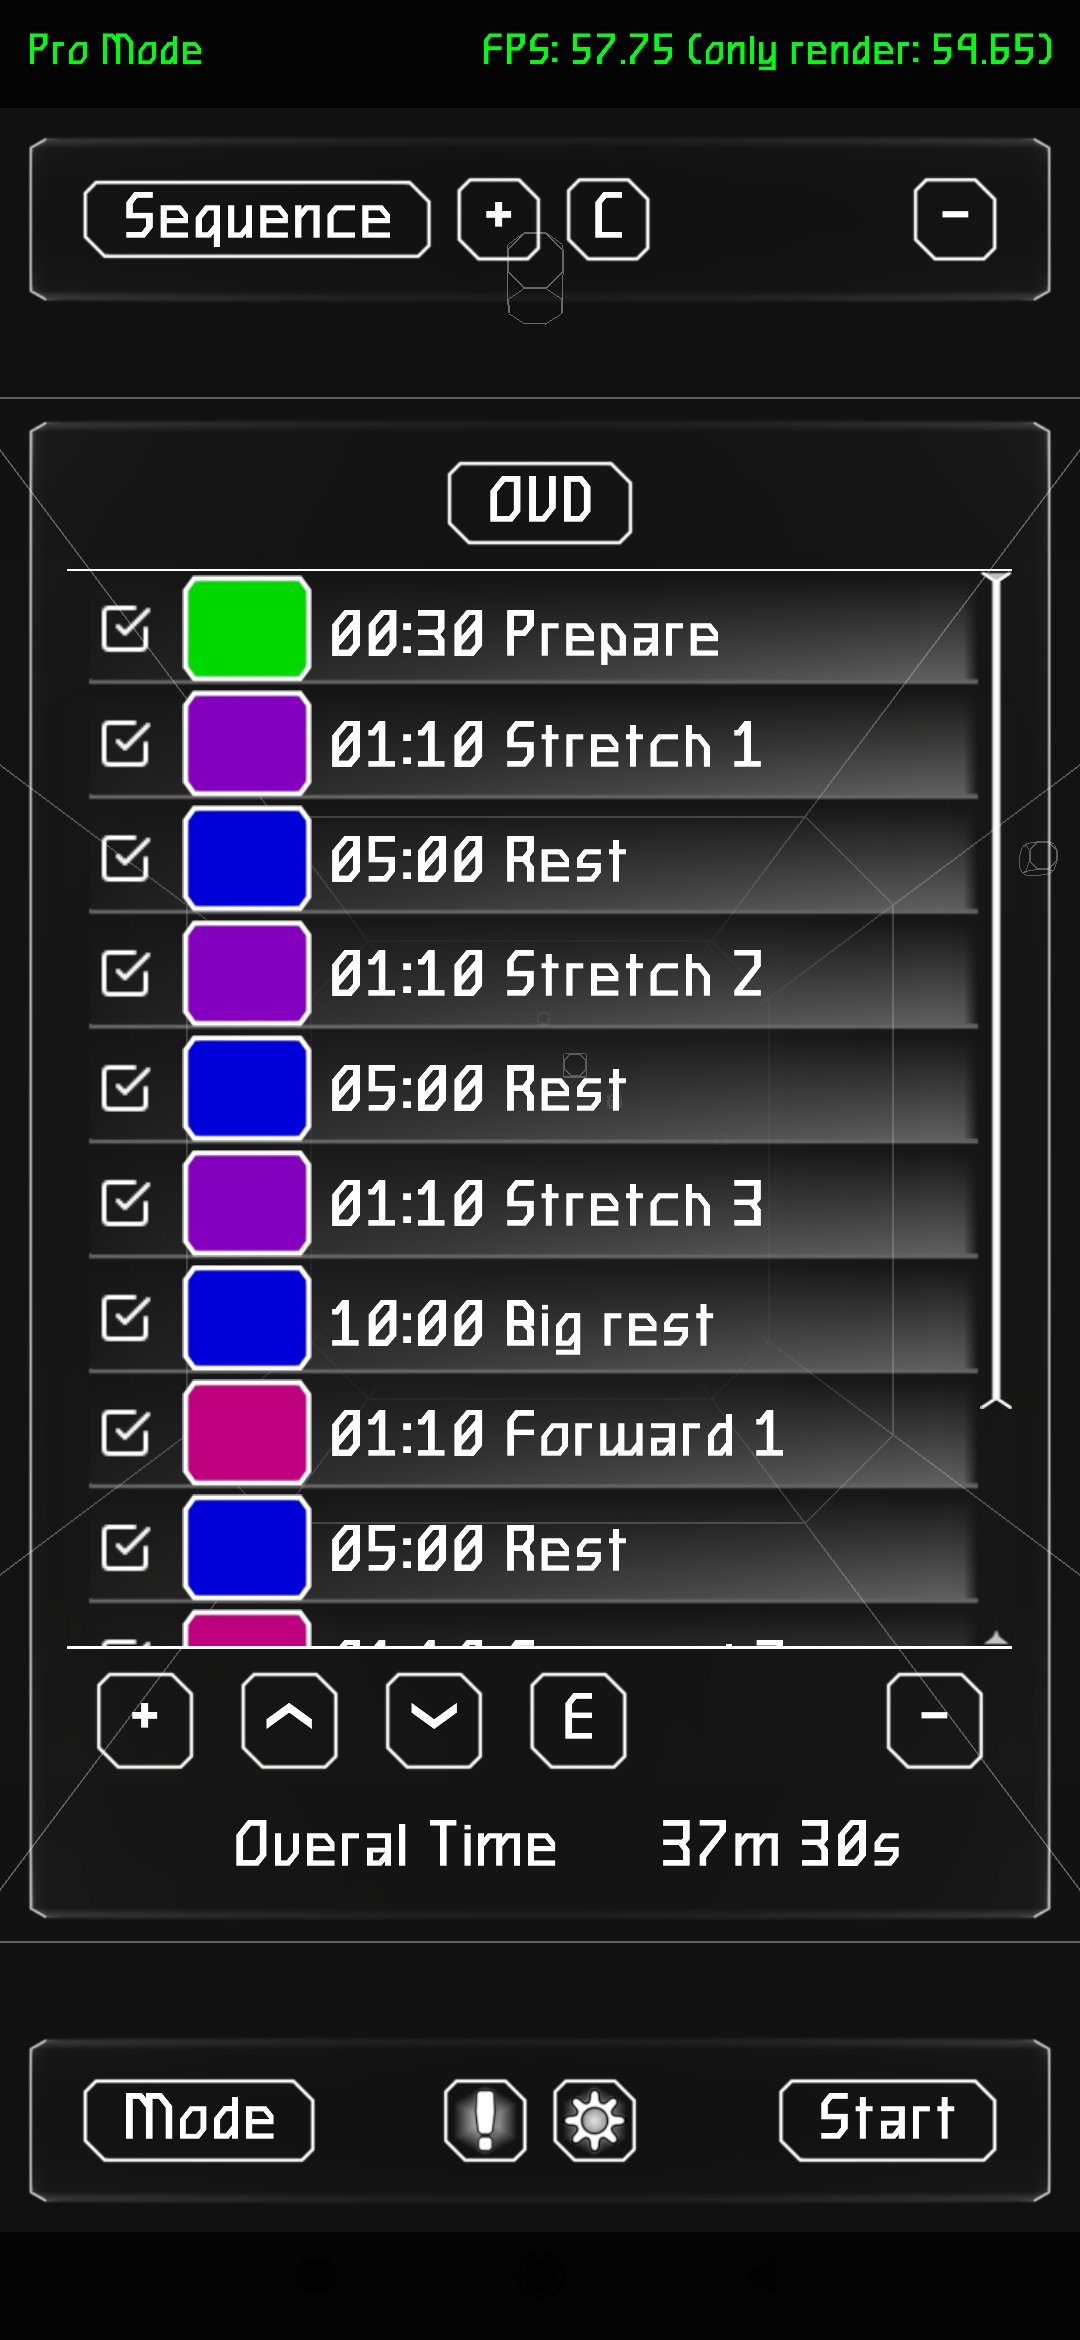
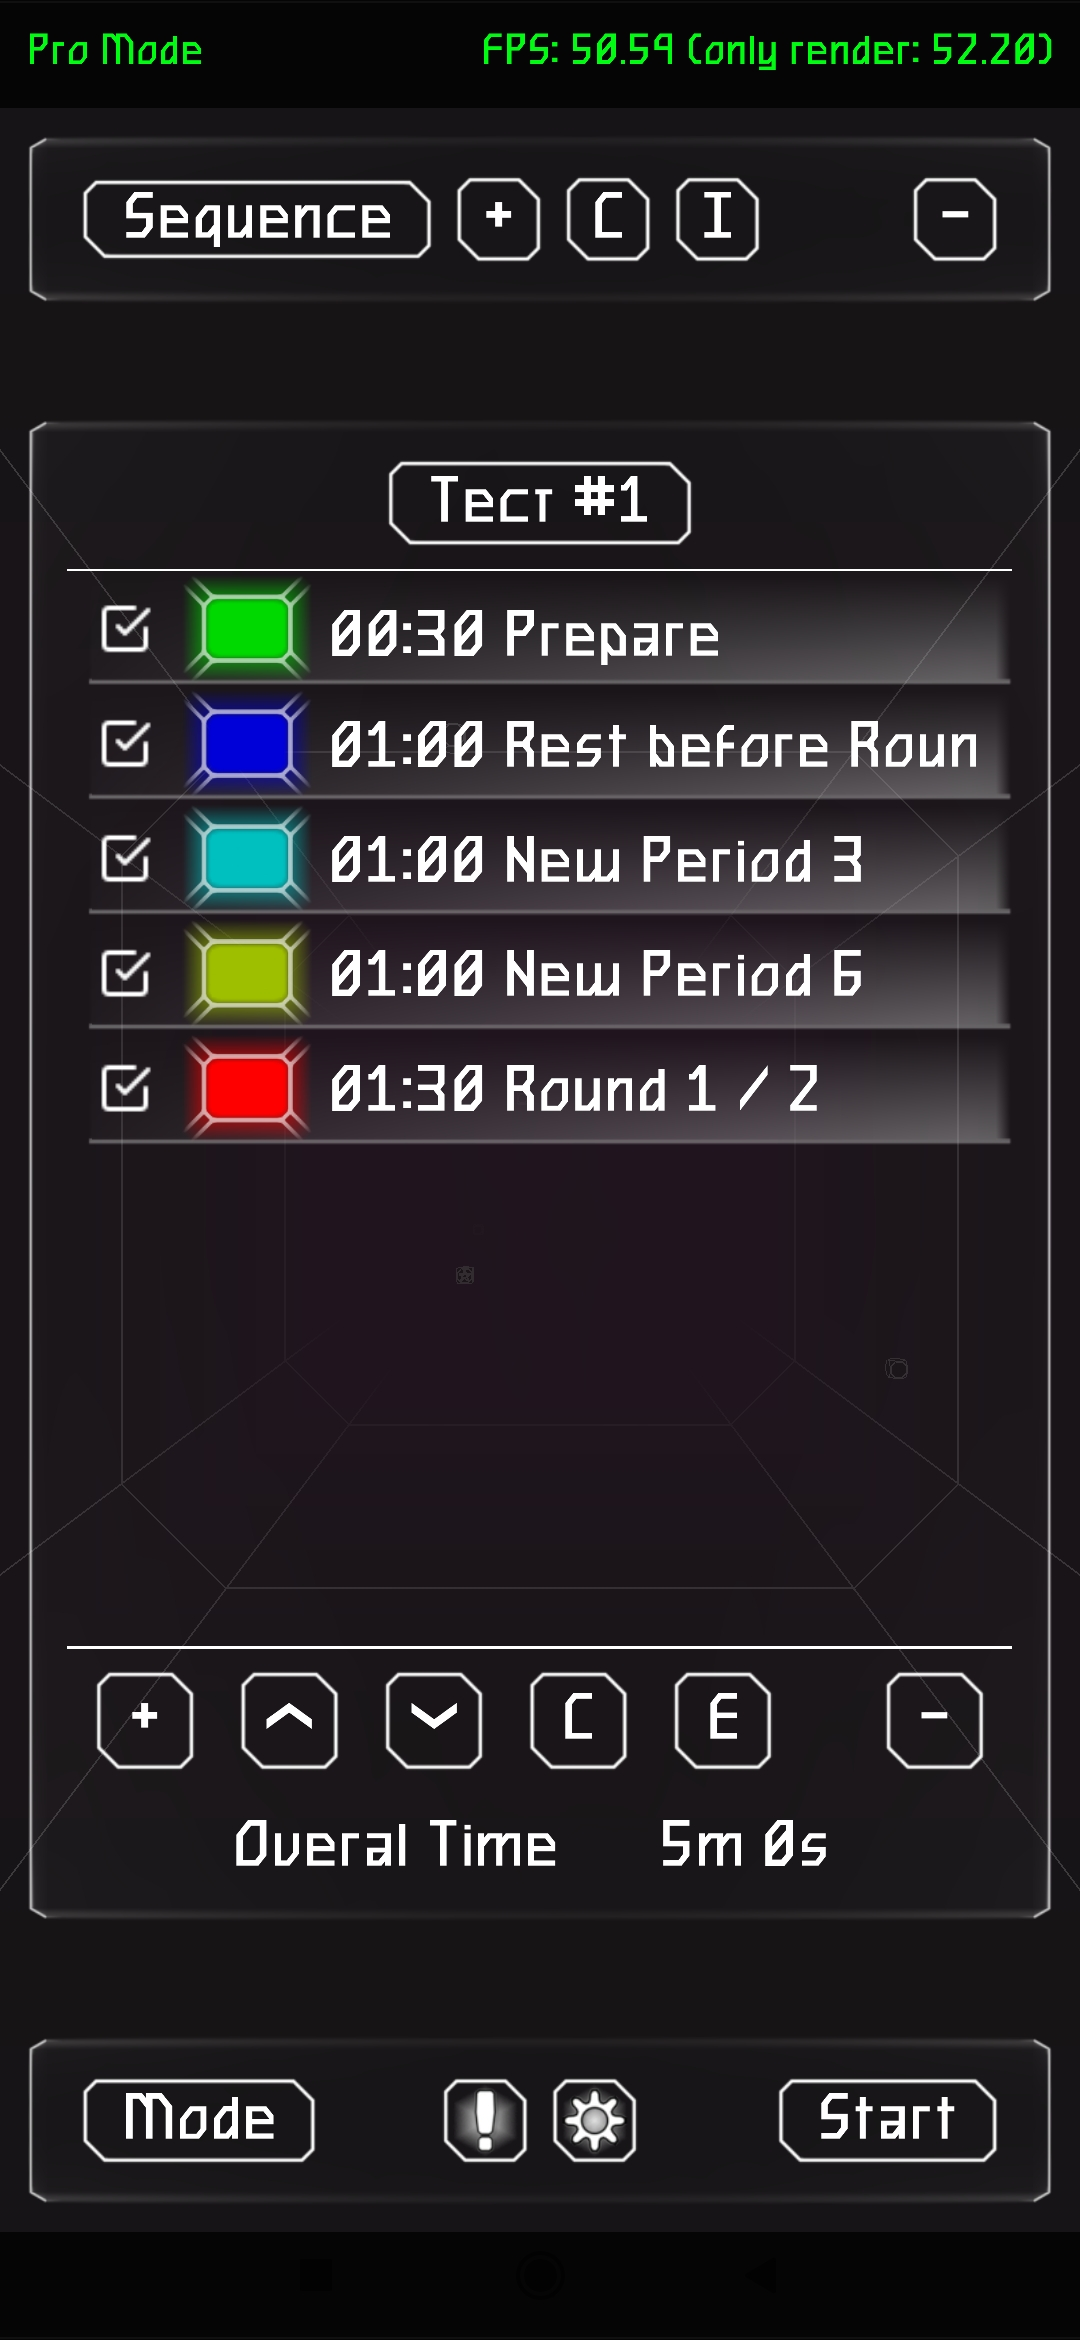
update screenshots

diff --git a/README.md b/README.md
@@ -6,7 +6,7 @@ New Version of [Training Timer](https://github.com/SerufuYua/training_timer)
 
 <img src="data_src/screenshots/Screenshot_01.jpg" alt="Screenshot 01" width="320"> <img src="data_src/screenshots/Screenshot_03.jpg" alt="Screenshot 03" width="320">
 
-<img src="data_src/screenshots/Screenshot_04.jpg" alt="Screenshot 04" width="320">
+<img src="data_src/screenshots/Screenshot_04.jpg" alt="Screenshot 04" width="320"> <img src="data_src/screenshots/Screenshot_05.jpg" alt="Screenshot 05" width="320">
 
 This app is designed to track your training time in various sports, from martial arts (boxing, MMA, etc.) to swimming and much more, even cooking soup.
 